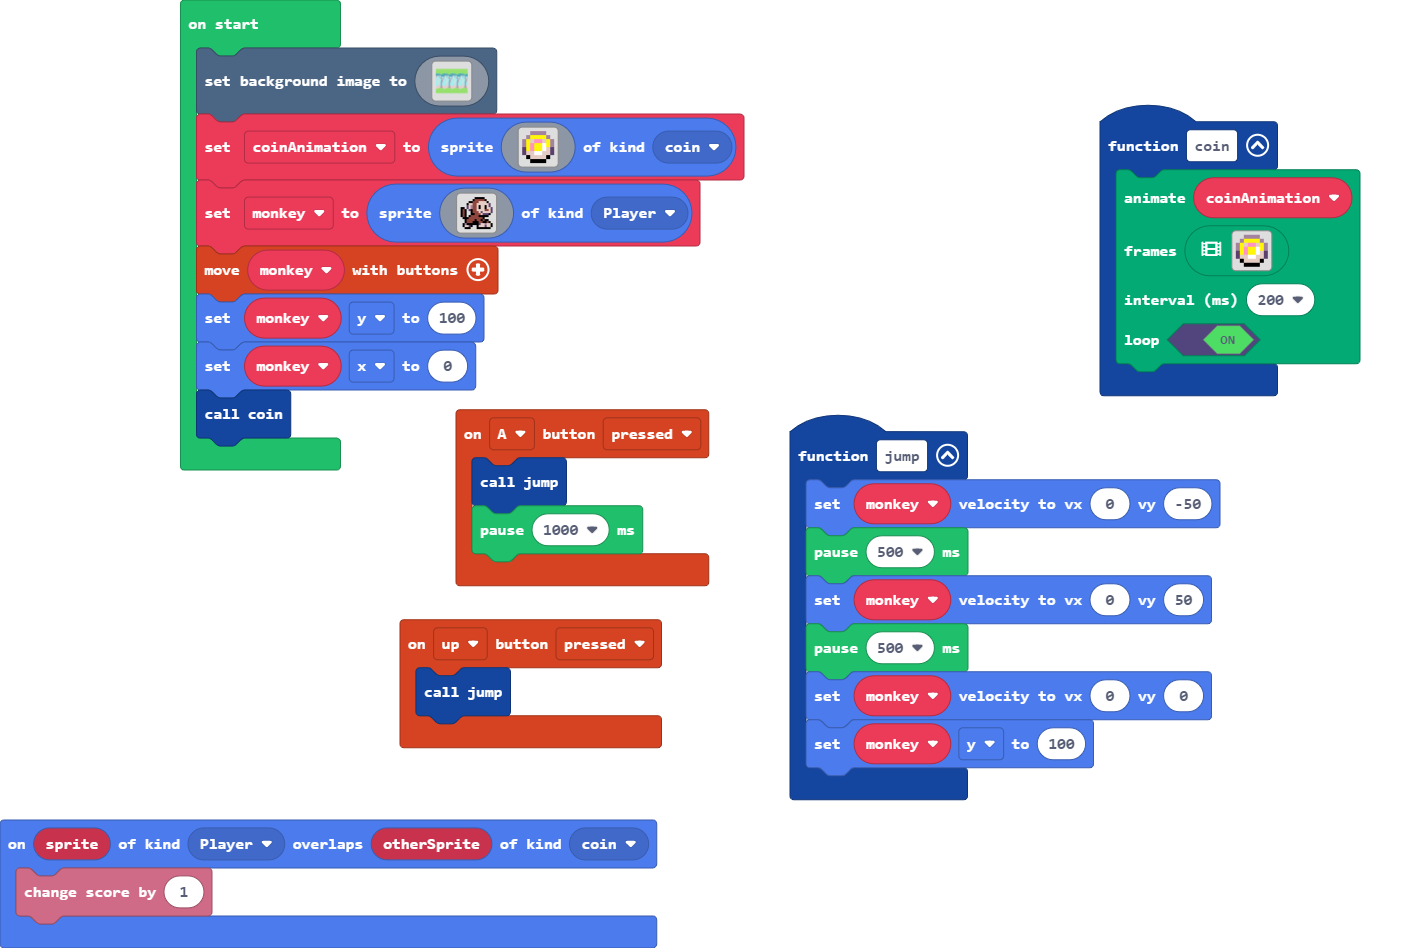
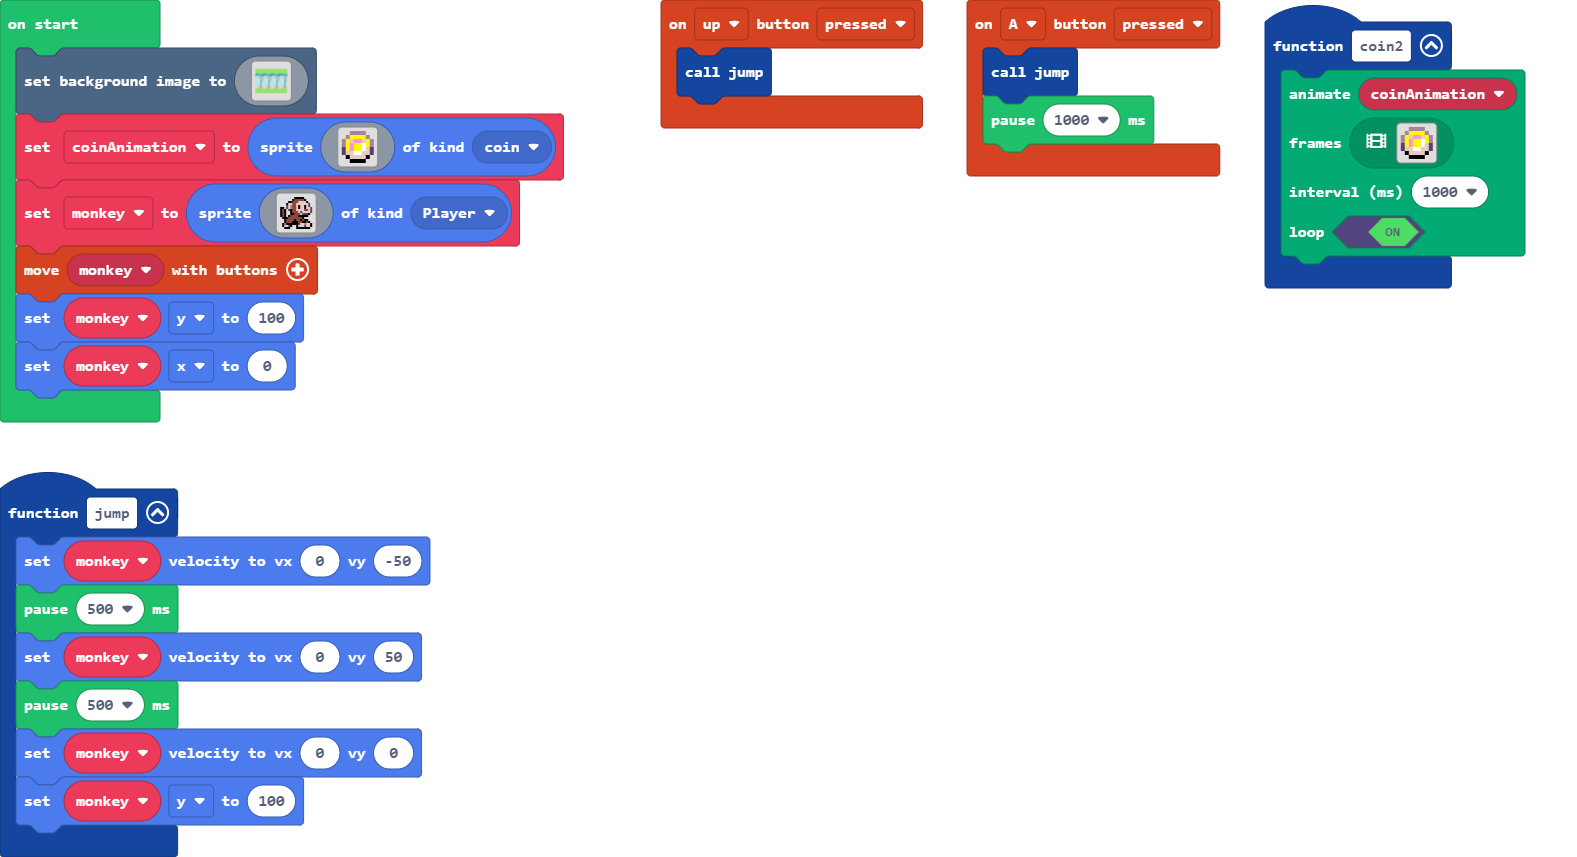
Update main.blocks, main.ts

diff --git a/main.ts b/main.ts
@@ -8,7 +8,7 @@ controller.A.onEvent(ControllerButtonEvent.Pressed, function () {
     jump()
     pause(1000)
 })
-function coin () {
+function coin2 () {
     animation.runImageAnimation(
     coinAnimation,
     [img`
